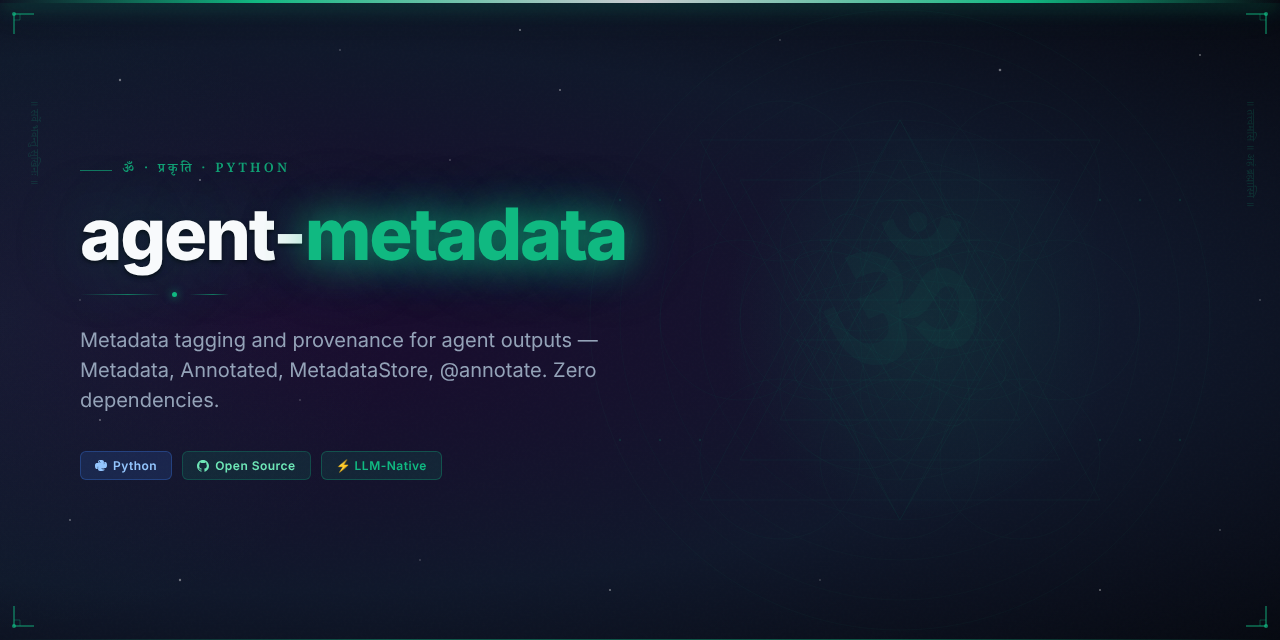
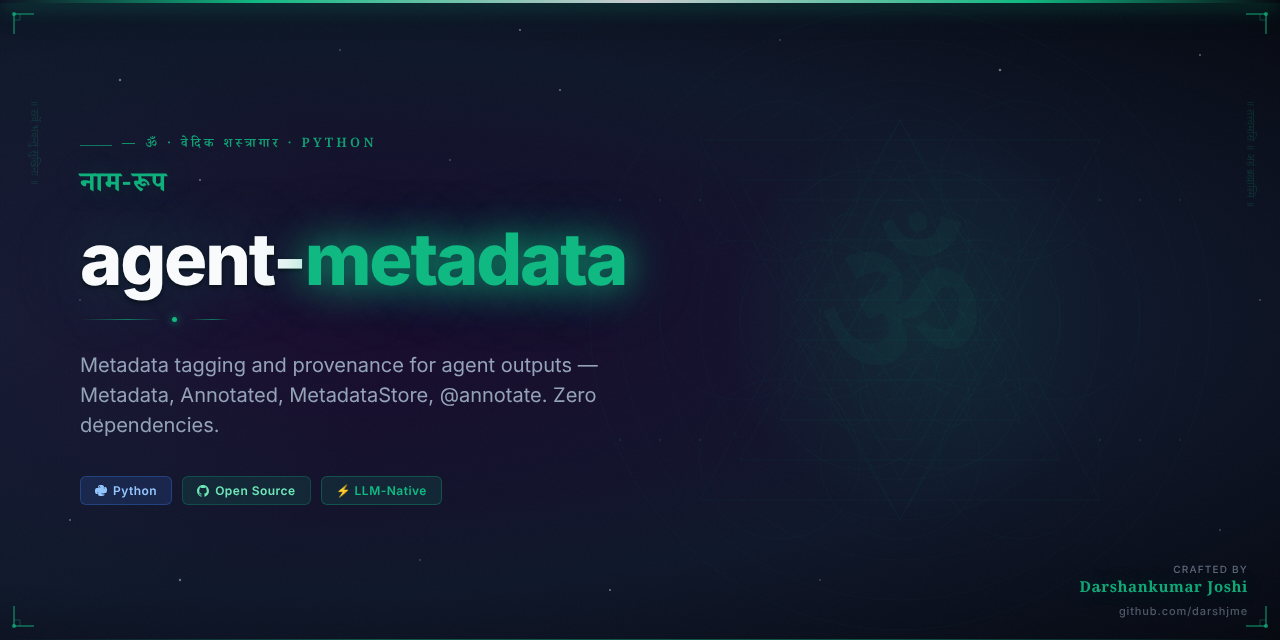
feat: add Vedic Arsenal hero image and updated README
Part of darshjme/arsenal — 100 production-grade Python libraries for LLM agents.
Vedic branding: ancient philosophy meets modern AI engineering.

diff --git a/README.md b/README.md
@@ -1,10 +1,12 @@
 <div align="center">
 
-<img src="assets/agent-metadata-hero.png" alt="agent-metadata — Vedic Arsenal" width="100%" />
+<img src="assets/agent-metadata-hero.png" alt="agent-metadata — Vedic Arsenal by Darshankumar Joshi" width="100%" />
 
 # 🌿 agent-metadata
 
-### *नाम-रूप* — Nama-Rupa — name and form, the metadata of existence
+<h3><em>नाम-रूप</em></h3>
+
+> *Nama-Rupa — name and form, the metadata of existence*
 
 **Metadata tagging and provenance for agent outputs — Metadata, Annotated, MetadataStore, @annotate. Zero dependencies.**
 
@@ -39,6 +41,19 @@ Or clone directly:
 git clone https://github.com/darshjme/agent-metadata.git
 cd agent-metadata
 pip install -e .
+```
+
+## How It Works
+
+```mermaid
+flowchart LR
+    A[Input] --> B[agent-metadata]
+    B --> C{Process}
+    C -- Success --> D[Output]
+    C -- Error --> E[Handle / Retry]
+    E --> B
+    style B fill:#6b21a8,color:#fff
+    note["Metadata — Zero Dependencies"]
 ```
 
 ## Quick Start
@@ -90,7 +105,7 @@ MIT — use freely, build freely.
 
 <div align="center">
 
-**Built with 🌿 by [Darshankumar Joshi](https://github.com/darshjme)**
+**Built with 🌿 by [Darshankumar Joshi](https://github.com/darshjme)** · [@thedarshanjoshi](https://twitter.com/thedarshanjoshi)
 
 *"कर्मण्येवाधिकारस्ते मा फलेषु कदाचन"*
 *Your right is to action alone, never to the fruits thereof.*
